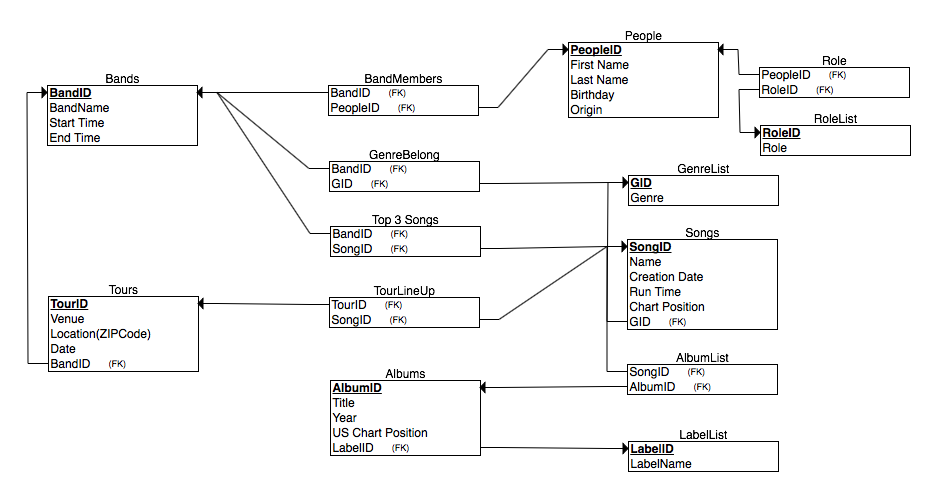
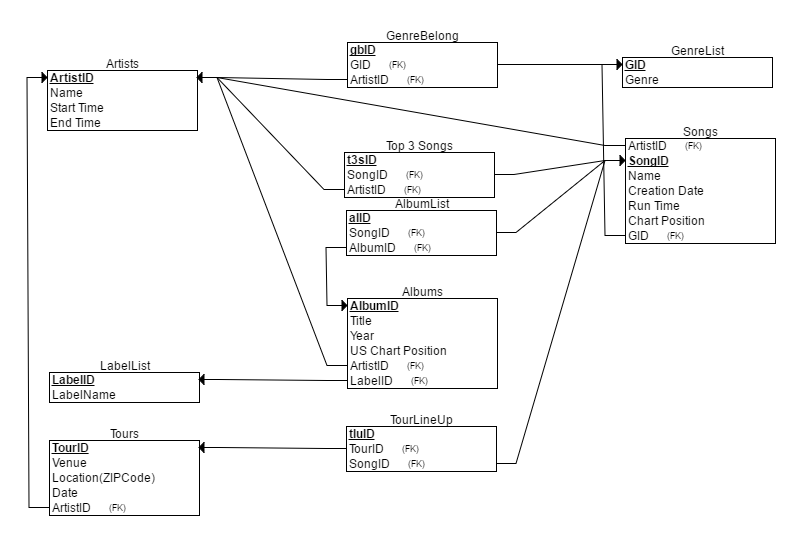
change scheme

diff --git a/initDB.py b/initDB.py
@@ -7,22 +7,13 @@ db_string = "postgres://localhost:5432/test"
 db = create_engine(db_string)
 base = declarative_base()
 
-class Bands(base):
-    __tablename__ = "Bands"
+class Artists(base):
+    __tablename__ = "Artists"
 
-    BandName = Column(String(length=100), nullable = False)
+    Name = Column(String(length=50), nullable = False)
     Start_time = Column(Date, nullable = False)
-    End_time = Column(Date, nullable = False)
-    BandID = Column(Integer, nullable = False, primary_key = True)
-
-class People(base):
-    __tablename__ = "People"
-
-    Origin = Column(String, nullable = False)
-    Birthday = Column(Date, nullable = False)
-    First_Name = Column(String(length=50), nullable = False)
-    Last_Name = Column(String(length=50), nullable = False)
-    PeopleID = Column(Integer, nullable = False, primary_key = True)
+    End_time = Column(Date, nullable = True)
+    ArtistID = Column(Integer, nullable = False, primary_key = True)
 
 class Tours(base):
     __tablename__ = "Tours"
@@ -31,14 +22,7 @@ class Tours(base):
     Location = Column(Integer, nullable = False)
     tDate = Column(Date, nullable = False)
     TourID = Column(Integer, nullable = False, primary_key = True)
-    BandID = Column(Integer, ForeignKey("Bands.BandID"), nullable = False)
-
-class BandMembers(base):
-    __tablename__ = "BandMembers"
-
-    bmID = Column(Integer, primary_key = True, nullable = False)
-    PeopleID = Column(Integer, ForeignKey("People.PeopleID"), nullable = False)
-    BandID = Column(Integer, ForeignKey("Bands.BandID"), nullable = False)
+    ArtistID = Column(Integer, ForeignKey("Artists.ArtistID"), nullable = False)
 
 class GenreList(base):
     __tablename__ = "GenreList"
@@ -50,7 +34,7 @@ class GenreBelong(base):
     __tablename__ = "GenreBelong"
 
     gbID = Column(Integer, nullable = False, primary_key = True)
-    BandID = Column(Integer, ForeignKey("Bands.BandID"), nullable = False)
+    ArtistID = Column(Integer, ForeignKey("Artists.ArtistID"), nullable = False)
     GID = Column(Integer, ForeignKey("GenreList.GID"), nullable = False)
 
 class LabelList(base):
@@ -59,12 +43,6 @@ class LabelList(base):
     LabelID = Column(Integer, nullable = False, primary_key = True)
     LabelName = Column(String, nullable = False)
 
-class RoleList(base):
-    __tablename__ = "RoleList"
-
-    RoleID = Column(Integer, nullable = False, primary_key = True)
-    Role = Column(String, nullable = False)
-
 class Songs(base):
     __tablename__ = "Songs"
 
@@ -72,8 +50,9 @@ class Songs(base):
     GID = Column(Integer, ForeignKey("GenreList.GID"), nullable = False)
     Name = Column(String(length=50), nullable = False)
     Creation_Date = Column(Date, nullable = False)
-    Chart_Position = Column(Integer, nullable = False)
+    Chart_Position = Column(Integer, nullable = True)
     Run_Time = Column(Numeric(scale = 2), nullable = False)
+    ArtistID = Column(Integer, ForeignKey("Artists.ArtistID"), nullable = False)
 
 class Albums(base):
     __tablename__ = "Albums"
@@ -82,13 +61,14 @@ class Albums(base):
     LabelID = Column(Integer, ForeignKey("LabelList.LabelID"), nullable = False)
     Title = Column(String, nullable = False)
     Year = Column(Date, nullable = False)
-    US_Chart_Postion = Column(Integer, nullable = False)
+    US_Chart_Postion = Column(Integer, nullable = True)
+    ArtistID = Column(Integer, ForeignKey("Artists.ArtistID"), nullable = False)
 
 class Top_3_Songs(base):
     __tablename__ = "Top_3_Songs"
 
     t3sID = Column(Integer, nullable = False, primary_key = True)
-    BandID = Column(Integer, ForeignKey("Bands.BandID"), nullable = False)
+    ArtistID = Column(Integer, ForeignKey("Artists.ArtistID"), nullable = False)
     SongID = Column(Integer, ForeignKey("Songs.SongID"), nullable = False)
 
 class AlbumList(base):
@@ -104,14 +84,6 @@ class TourLineUp(base):
     tluID = Column(Integer, nullable = False, primary_key = True)
     TourID = Column(Integer, ForeignKey("Tours.TourID"), nullable = False)
     SongID = Column(Integer, ForeignKey("Songs.SongID"), nullable = False)
-
-class Role(base):
-    __tablename__ = "Role"
-
-    rID = Column(Integer, nullable = False, primary_key = True)
-    PeopleID = Column(Integer, ForeignKey("People.PeopleID"), nullable = False)
-    RoleID   = Column(Integer, ForeignKey("RoleList.RoleID"), nullable = False)
-
 
 Session = sessionmaker(db)
 session = Session

diff --git a/writeDB.py b/writeDB.py
@@ -1,0 +1,12 @@
+from sqlalchemy import create_engine
+from sqlalchemy.orm import sessionmaker
+
+from initDB.py import *
+
+engine = create_engine('')
+base.metadata.bind = engine
+
+Session = sessionmaker(bind=engine)
+session = Session()
+
+new_
